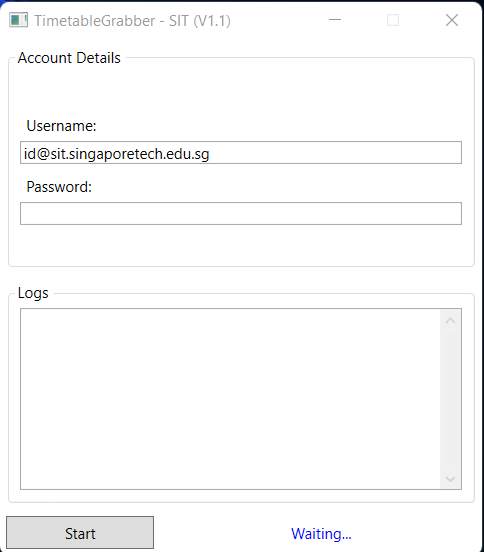
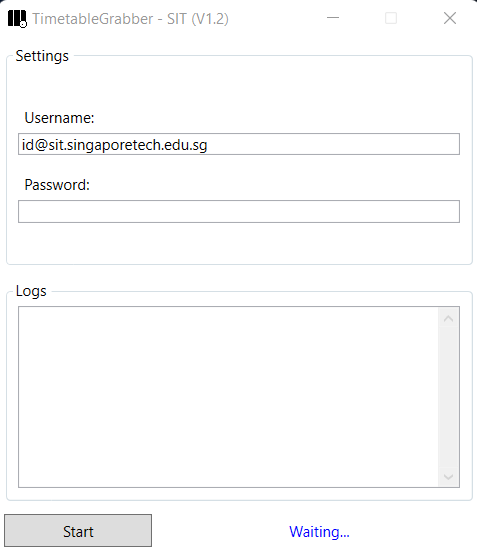
V1.2

diff --git a/TimetableGrabber - SIT/MainWindow.xaml b/TimetableGrabber - SIT/MainWindow.xaml
@@ -5,13 +5,14 @@
         xmlns:mc="http://schemas.openxmlformats.org/markup-compatibility/2006"
         xmlns:local="clr-namespace:TimetableGrabber___SIT"
         mc:Ignorable="d"
-        Title="TimetableGrabber - SIT (V1.1)"
+        Title="TimetableGrabber - SIT (V1.2)"
         Height="450"
         Width="400"
         MinHeight="450"
         MinWidth="400"
         ResizeMode="CanMinimize"
-        WindowStartupLocation="CenterScreen">
+        WindowStartupLocation="CenterScreen"
+        Icon="TimetableGrabber - SIT.png">
     <Grid>
         <Grid.RowDefinitions>
             <RowDefinition Height="*"/>
@@ -25,7 +26,7 @@
         </Grid.ColumnDefinitions>
 
         <GroupBox
-            Header="Account Details"
+            Header="Settings"
             Margin="5"
             Grid.Row="0"
             Grid.Column="0"
@@ -40,16 +41,16 @@
                 <TextBox
                     Name="TextBoxUsername"
                     Text="id@sit.singaporetech.edu.sg"
-                    Margin="5, 0, 5, 0"/>
+                    Margin="5, 0, 5, 5"/>
 
                 <Label
                     Content="Password:"
                     Margin="5, 5, 5, 0"
                     Grid.Row="2"
-                    Grid.Column="2"/>   
+                    Grid.Column="2"/>
                 <PasswordBox
                     Name="PasswordBoxPassword"
-                    Margin="5, 0, 5, 0"/>
+                    Margin="5, 0, 5, 5"/>
             </StackPanel>
         </GroupBox>
         <GroupBox

diff --git a/TimetableGrabber - SIT/MainWindow.xaml.cs b/TimetableGrabber - SIT/MainWindow.xaml.cs
@@ -35,18 +35,25 @@ namespace TimetableGrabber___SIT
             string username = TextBoxUsername.Text;
             string password = PasswordBoxPassword.Password;
 
+            ButtonStart.IsEnabled = false;
+
             if (String.IsNullOrWhiteSpace(username) || String.IsNullOrWhiteSpace(password))
                 MessageBox.Show("Please enter your username or password!", "TimetableGrabber - SIT", MessageBoxButton.OK, MessageBoxImage.Error);
             else
             {
-                bool succeeded = await Task.Run(() => in4sit.Start(username, password));//in4sit.Start(TextBoxUsername.Text, PasswordBoxPassword.Password));
-                if (succeeded)
+                if (MessageBox.Show("By running this application, you agree that you are responsible for your own account!\nPlease also ensure that your username and password is correct!\nYou can compile the program yourself if you are not comfortable.", "TimetableGrabber - SIT", MessageBoxButton.YesNo, MessageBoxImage.Warning) == MessageBoxResult.Yes)
                 {
-                    MessageBox.Show("Your timetable has been exported!", "TimetableGrabber - SIT", MessageBoxButton.OK, MessageBoxImage.Information);
+                    bool succeeded = await Task.Run(() => in4sit.Start(username, password));
+                    if (succeeded)
+                    {
+                        MessageBox.Show("Your timetable has been exported!", "TimetableGrabber - SIT", MessageBoxButton.OK, MessageBoxImage.Information);
+                    }
+                    else
+                        MessageBox.Show("Something went wrong!", "TimetableGrabber - SIT", MessageBoxButton.OK, MessageBoxImage.Error);
                 }
-                else
-                    MessageBox.Show("Something went wrong!", "TimetableGrabber - SIT", MessageBoxButton.OK, MessageBoxImage.Error);
             }
+
+            ButtonStart.IsEnabled = true;
         }
 
         public async Task Log(string logMessage)

diff --git a/TimetableGrabber - SIT/API/IN4SIT.cs b/TimetableGrabber - SIT/API/IN4SIT.cs
@@ -229,7 +229,6 @@ namespace TimetableGrabber___SIT.API
                         Start = new CalDateTime(course.StartDateTime),
                         End = new CalDateTime(course.EndDateTime),
                         Location = course.Location
-
                     };
 
                     exportCalendar.Events.Add(calendarEvent);
@@ -238,7 +237,7 @@ namespace TimetableGrabber___SIT.API
                 CalendarSerializer calendarSerializer = new CalendarSerializer();
                 string serializedCalendar = calendarSerializer.SerializeToString(exportCalendar);
 
-                File.WriteAllText(AppDomain.CurrentDomain.BaseDirectory + "/timetable.ics", serializedCalendar);
+                File.WriteAllText(string.Format("{0}/{1}_timetable.ics", AppDomain.CurrentDomain.BaseDirectory, DateTime.Now.ToString("dd-MM-yyyy-HH-mm-ss")), serializedCalendar); ;
 
                 await mainWindow.Log("Exported schedule...");
                 #endregion

diff --git a/README.md b/README.md
@@ -24,8 +24,9 @@ TimetableGrabber - SIT is a tool that allows you to grab and export your trimest
 <img src="https://github.com/JustBrandonLim/TimetableGrabber---SIT/blob/86d02770d3649c7e73ad78ba766c66389170505c/Picture%203.png" />
 
 ### Credits
-* [Selenium](https://www.selenium.dev/)
+* [Selenium](https://www.selenium.dev)
 * [ical.NET](https://github.com/rianjs/ical.net)
+* [Icons8](https://icons8.com)
 
 ### Testers
 * [@ministic2001](https://github.com/ministic2001)
